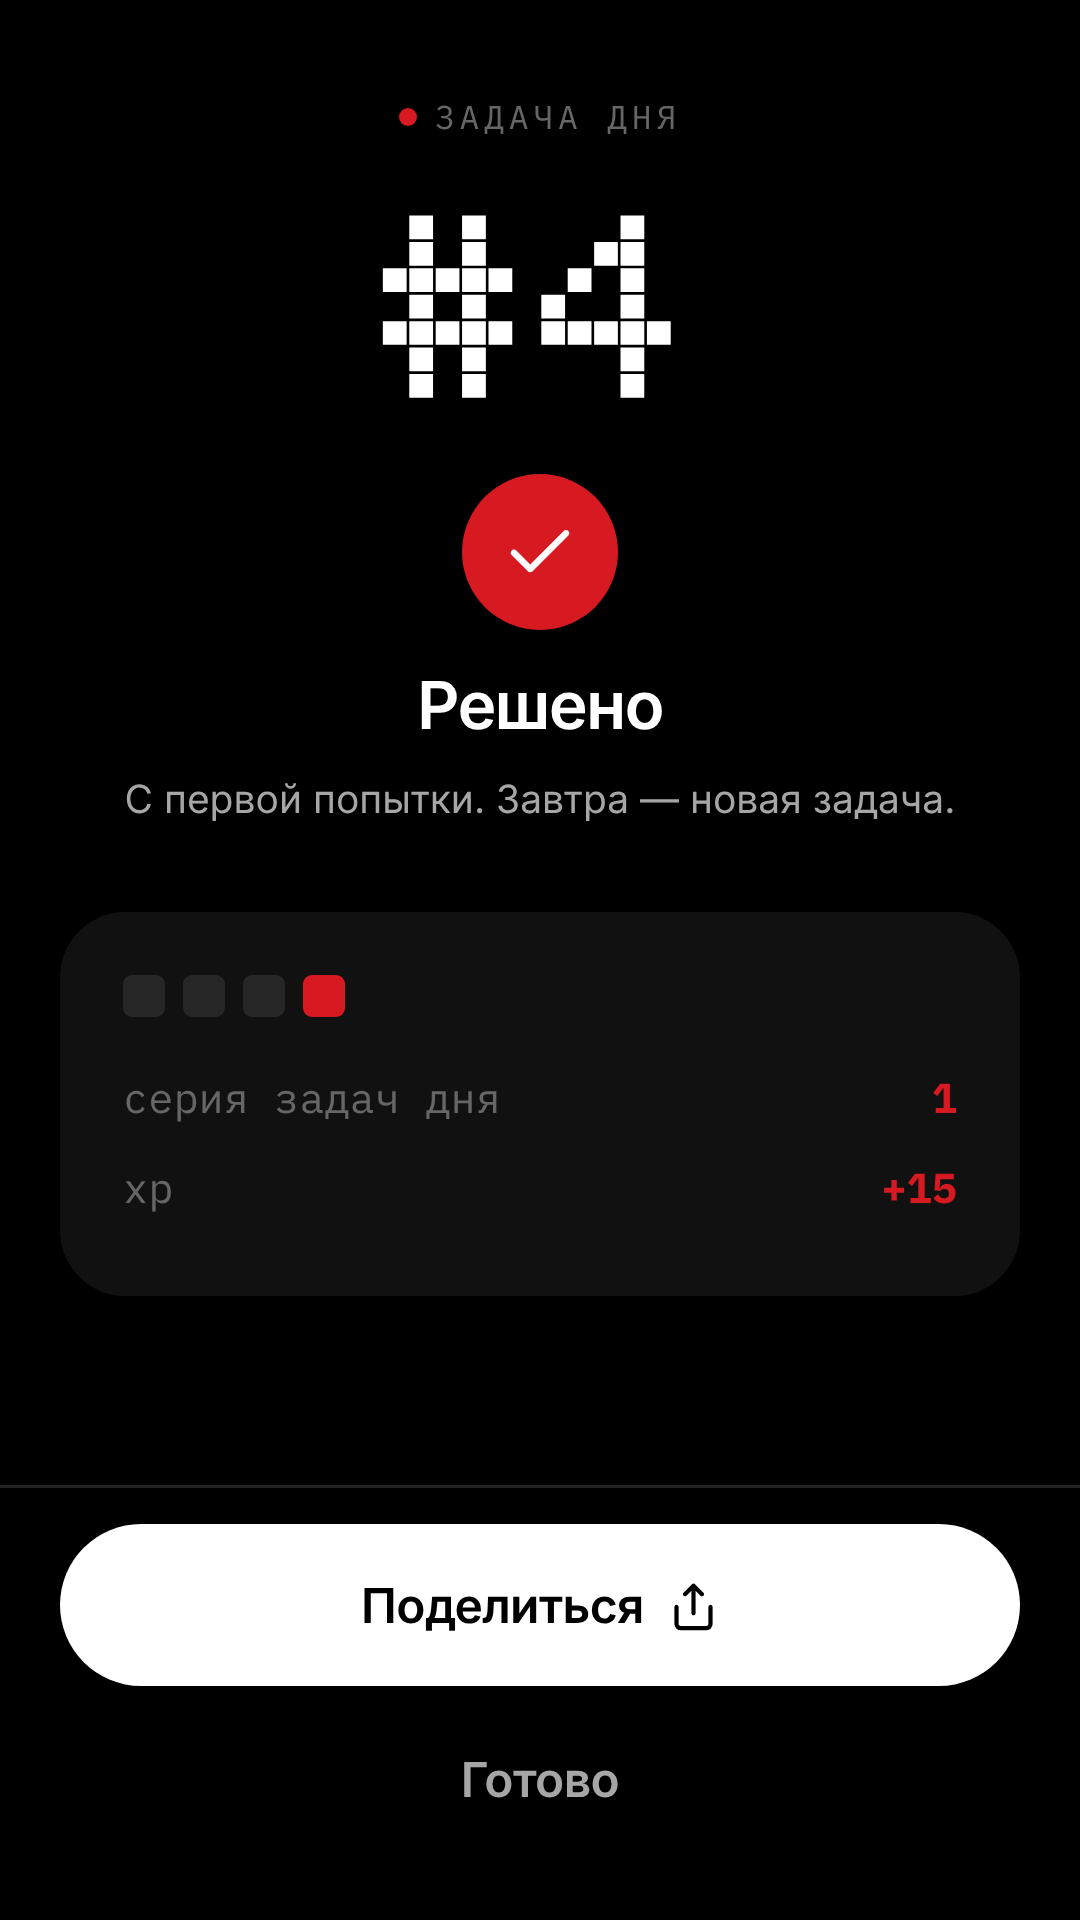
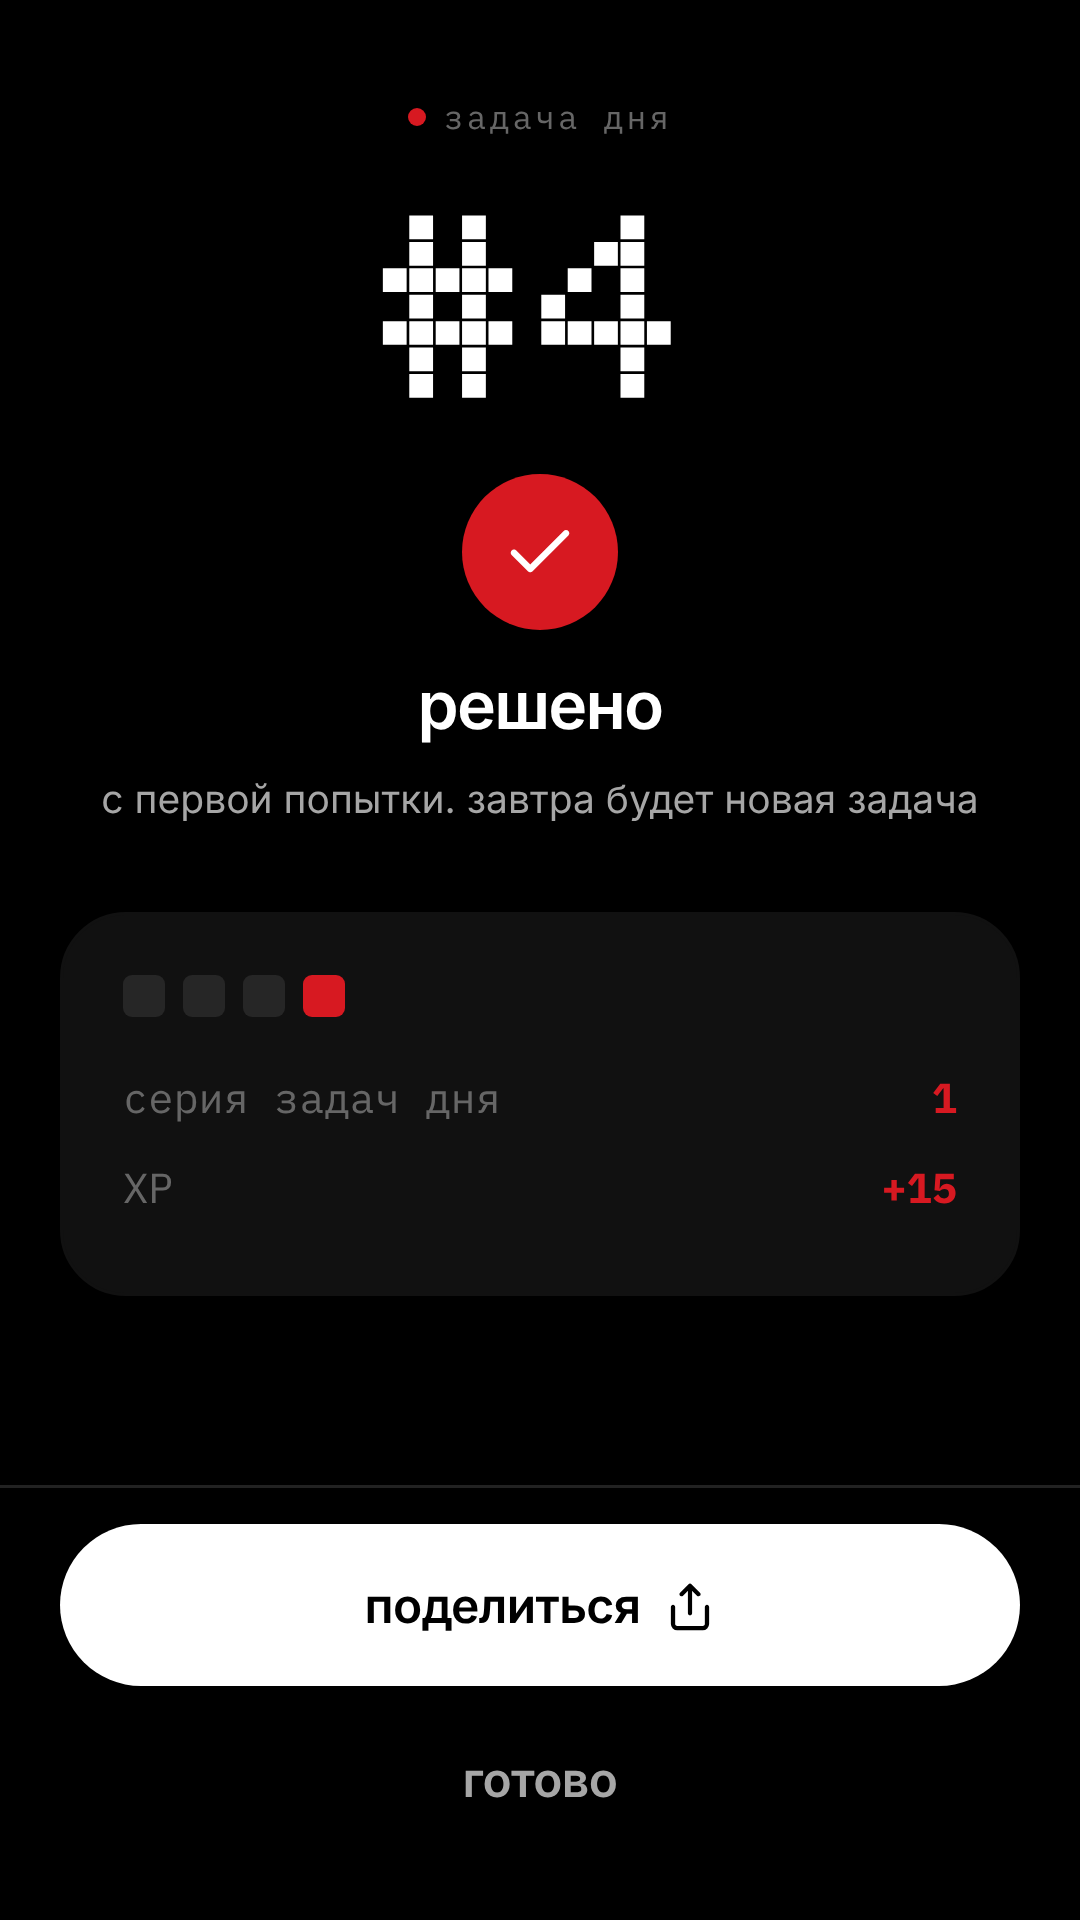
Fresh store screenshots, listing text, last trailing period on home

diff --git a/app/(tabs)/index.tsx b/app/(tabs)/index.tsx
@@ -81,8 +81,8 @@ function DailyCard({ today }: { today: string }) {
         </View>
         <Text style={Type.h3}>{questionTitle(question)}</Text>
         <Text style={Type.small}>
-          одна попытка, одна задача для всех.
-          {streak > 0 ? ` серия: ${streak}.` : ''}
+          одна попытка, одна задача для всех
+          {streak > 0 ? `. серия: ${streak}` : ''}
         </Text>
         <Button
           title="решить"

diff --git a/docs/store/rustore.md b/docs/store/rustore.md
@@ -55,11 +55,11 @@ npm run build:rustore
 > • К собеседованию: приведение типов, hoisting, каверзные задачи «что выведет консоль»
 > • Алгоритмы: сложность, задачи на массивы и строки
 >
-> Задания разных форматов: «что выведет код», «найди баг», «заполни пропуск», «расставь строки». После ответа код можно запустить и увидеть настоящий вывод.
+> Задания разных форматов: «что выведет код», «найди баг», «заполни пропуск», «расставь строки». После ответа код можно запустить и увидеть настоящий вывод. Нашёл ошибку в задании? Сообщи прямо с экрана ответа.
 >
 > Задача дня — одна на всех, с карточкой результата, которой можно поделиться.
 >
-> Уже знаешь основы? Пройди вводный тест — знакомые темы засчитаются.
+> Уже знаешь основы? Выбери свой уровень или пройди короткий тест, и знакомые разделы засчитаются.
 >
 > Мотивация без давления: цель дня, стрик с заморозками, уровни, достижения и недельный рейтинг. Напоминания приходят, только если ты ещё не занимался сегодня.
 >
